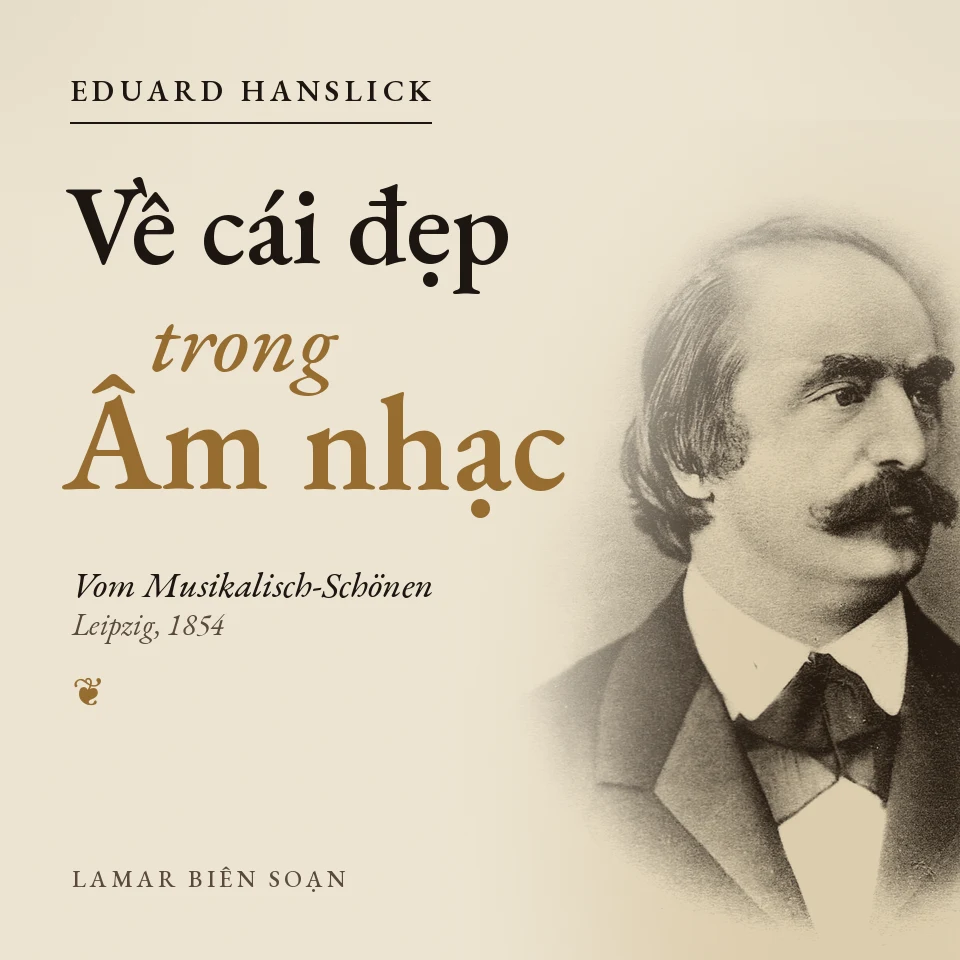
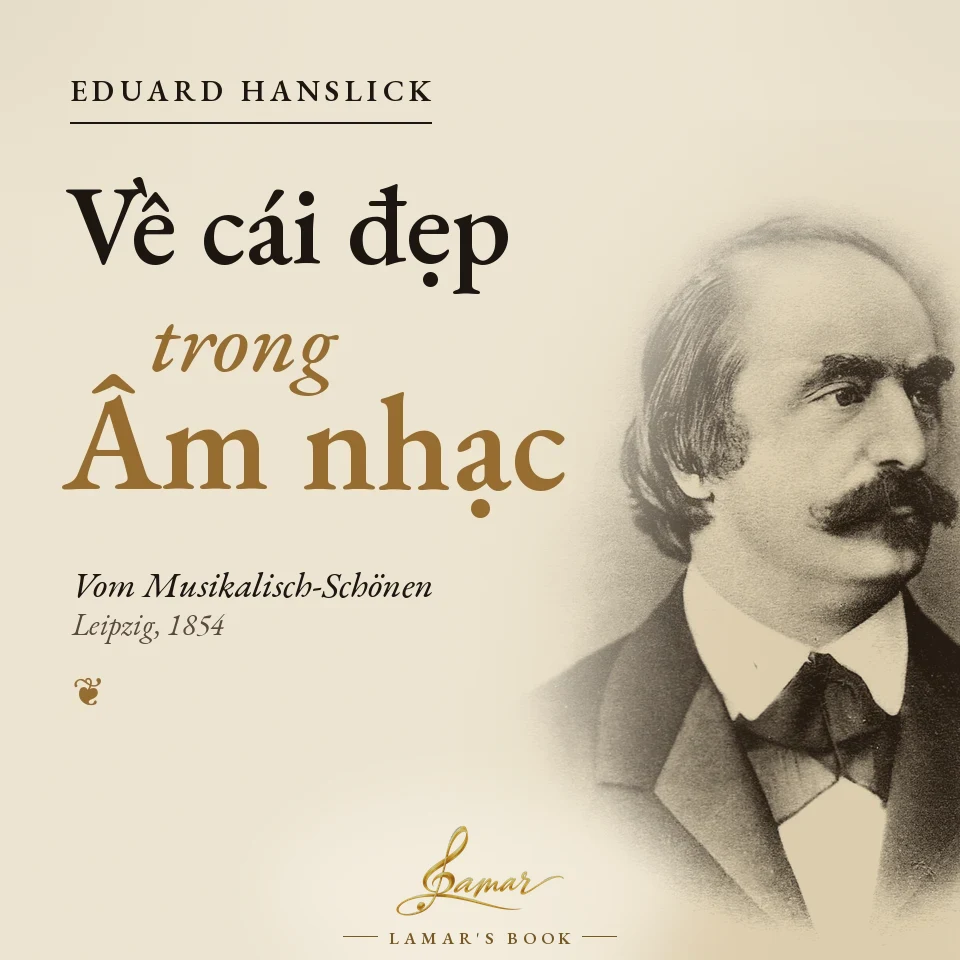
Bìa mới cho Nhạc Lý Cơ Bản 1–2 và hai giáo trình piano (by Lamar); thay "Lamar biên soạn" bằng dấu Lamar's book trên bìa các sách đọc theo tác giả khác
Claude-Session: https://claude.ai/code/session_016DXmRVDzV1tugYS6YgVYK3

diff --git a/src/features/curriculum/curricula.ts b/src/features/curriculum/curricula.ts
@@ -1,3 +1,5 @@
+import kidsCover from '../../assets/covers/piano-tre-em.webp'
+import adultsCover from '../../assets/covers/piano-nguoi-lon.webp'
 import type { Curriculum, ExamSpec } from './types'
 
 /**
@@ -76,6 +78,7 @@ export const CURRICULA: Curriculum[] = [
     audience: 'Trẻ 6 – 12 tuổi · học cùng phụ huynh',
     hue: 25,
     glyph: '𝄞',
+    coverImage: kidsCover,
     intro:
       'Giáo trình đi theo trình tự "âm thanh trước ký hiệu": trẻ hát, vỗ, vận động và chơi theo tai trước, rồi mới đọc điều mình đã nghe. Mỗi chương có đủ các mảng: đọc nốt và kỹ thuật, cùng tiết tấu, luyện tai, ứng tác, sáng tác — những mảng mà khảo sát 66 giáo trình của Hood (1982) chỉ ra là hay bị thiếu. Sau cấp Chuẩn bị, mỗi cấp tương đương một grade piano của ABRSM, từ Initial đến Grade 5. Thời lượng lấy từ "tổng thời gian học" (TQT) mà ABRSM công bố cho từng grade — Initial 40 giờ, Grade 1 60, Grade 2 90, Grade 3 120, Grade 4 150, Grade 5 180 — chia cho nhịp học giả định 10 – 14 giờ mỗi tháng (một buổi học và 15 – 25 phút tập mỗi ngày). ABRSM gọi các con số này là ước tính trung bình; Lamar coi mỗi grade là phần học thêm kể từ grade trước — đây là cách hiểu của Lamar, không phải quy định của ABRSM. Tác phẩm trong mỗi cấp ghi rõ căn cứ xếp cấp; khi thi thật, ba bài thi phải chọn từ sách bài thi ABRSM của kỳ hiện hành.',
     principles: [
@@ -491,6 +494,7 @@ export const CURRICULA: Curriculum[] = [
     audience: 'Người lớn mới học hoặc quay lại',
     hue: 255,
     glyph: '𝄢',
+    coverImage: adultsCover,
     intro:
       'Người lớn học vì những lý do rất khác nhau — thực hiện ước mơ, thư giãn, đệm hát cho gia đình — và bỏ học chủ yếu vì thiếu thời gian hoặc buổi học nhàm. Giáo trình vì vậy đưa hợp âm và đệm hát vào sớm, học nhạc lý ngay trên phím đàn, và mỗi cấp tương đương một grade piano ABRSM từ Initial đến Grade 8. Thời lượng lấy từ "tổng thời gian học" (TQT) ABRSM công bố — Initial 40 giờ, Grade 1 60, 2: 90, 3: 120, 4: 150, 5: 180, 6: 220, 7: 270, 8: 320 — chia cho nhịp học giả định 16 – 22 giờ mỗi tháng (một buổi học và 30 – 45 phút tập gần như mỗi ngày). ABRSM gọi đây là ước tính trung bình; việc coi mỗi grade là phần học thêm kể từ grade trước là cách hiểu của Lamar. Muốn thi Grade 6 – 8 phải đậu nhạc lý Grade 5 (hoặc Practical Musicianship, Jazz Grade 5) — vì vậy cấp Grade 5 có chương nhạc lý riêng. ABRSM không có kỳ thi đệm hát; ba cấp đệm hát cuối tham khảo các kỳ thi Rock & Pop của Trinity, Rockschool, bài thi hoà âm đàn phím của LCM và bài lead sheet của RCM, và có thể học song song từ Grade 5.',
     principles: [

diff --git a/src/features/curriculum/books.ts b/src/features/curriculum/books.ts
@@ -1,4 +1,6 @@
 import harmonyCover from '../../assets/covers/hoa-am-co-dien.webp'
+import theory1Cover from '../../assets/covers/nhac-ly-co-ban-1.webp'
+import theory2Cover from '../../assets/covers/nhac-ly-co-ban-2.webp'
 import polyphonyCover from '../../assets/covers/phuc-dieu-nghiem-khac.webp'
 import fuxCover from '../../assets/covers/doi-am-fux.webp'
 import albrechtsbergerCover from '../../assets/covers/albrechtsberger.webp'
@@ -171,6 +173,7 @@ export const BOOKS: Book[] = [
     audience: 'Người mới học · mọi lứa tuổi',
     hue: 70,
     glyph: '𝄞',
+    coverImage: theory1Cover,
     preface: `
 Cuốn sách này dành cho người **bắt đầu học nhạc lý**: học sinh piano, người lớn tự học, giáo viên cần một trình tự dạy. Mục tiêu là sau khi đọc xong, người học **đọc được bản nhạc**, hiểu nốt nào, dài bao lâu, thuộc giọng gì, hợp âm nào đang vang lên.
 
@@ -311,6 +314,7 @@ Quyển 2 tiếp tục với nhịp nâng cao, điệu thức, hợp âm bảy v
     audience: 'Đã học xong Quyển 1',
     hue: 32,
     glyph: '𝄢',
+    coverImage: theory2Cover,
     preface: `
 Quyển 2 dành cho người đã nắm Quyển 1: đọc được nốt, nhịp, quãng, âm giai và hợp âm ba. Ở đây nhạc lý chuyển từ **ký hiệu** sang **cấu trúc**: vì sao các hợp âm nối với nhau như vậy, một giai điệu được xây thế nào, một bản nhạc chia thành những phần nào.
 

diff --git a/src/features/curriculum/reader/model.ts b/src/features/curriculum/reader/model.ts
@@ -120,7 +120,7 @@ function fromCourse(c: Curriculum): ReaderBook {
     items.push({ key: `on-tap-cap-${i + 1}`, kind: 'review', title: `Ôn tập và kiểm tra Cấp ${i + 1}`, label: l.title, part: i + 1, body: levelBody(l) })
   })
   items.push({ key: 'dap-an', kind: 'answers', title: 'Đáp án câu hỏi ôn tập' })
-  return { id: c.id, title: c.title, subtitle: c.subtitle, author: c.author, audience: c.audience, hue: c.hue, glyph: c.glyph, style: 'color', kind: 'course', items }
+  return { id: c.id, title: c.title, subtitle: c.subtitle, author: c.author, audience: c.audience, hue: c.hue, glyph: c.glyph, style: 'color', coverImage: c.coverImage, kind: 'course', items }
 }
 
 export function roman(n: number) {

diff --git a/src/features/curriculum/types.ts b/src/features/curriculum/types.ts
@@ -54,6 +54,8 @@ export interface Curriculum {
   /** Hue for the cover and accents. */
   hue: number
   glyph: string
+  /** Optional photographic/illustrated cover (square webp). */
+  coverImage?: string
   intro: string
   /** The design principles, each tied to a reason. */
   principles: { title: string; text: string }[]

diff --git a/CLAUDE.md b/CLAUDE.md
@@ -41,7 +41,7 @@ npx tsc -b && npm run lint && npm run check:links && npm run build
 - **Nhạc mở đầu:** `components/introMusic.ts` phát chương IV Giao hưởng số 9 của Dvořák từ đúng nốt Mi đầu câu chủ đề kèn đồng (giây 16,08 của file gốc, dò cao độ) tới 44,5 s — 28,4 s, tắt dần cuối (`public/media/intro-dvorak9.{m4a,ogg}` — m4a cho Safari/Chrome, ogg Opus cho trình duyệt không chơi AAC; cắt từ file mp3 Lamar gửi; theo Lamar là bản Antal Doráti chỉ huy (file không có thẻ, chưa rõ dàn nhạc, năm thu; bản thu thương mại nên còn bản quyền)): mở dần khi vào màn khoá: trình duyệt cho tự phát thì phát thẳng `<audio>` (mờ dần bằng `audio.volume`, không tạo AudioContext vì nó sẽ bị treo ở trạng thái suspended khi chưa có cú chạm — lỗi cũ: chạy mà không ra tiếng); bị chặn thì nút loa nhấp nháy "Chạm để nghe nhạc" và cú chạm/phím đầu dựng Web Audio (iOS bỏ qua `audio.volume`) rồi phát từ đầu; tắt dần 2,2 s khi nhập đúng mã (`App.tsx`); nút loa góc trên trái màn khoá, nhớ tắt/bật ở localStorage `intro:muted`; Save-Data thì không phát.
 - **Logo:** chữ ký vàng "Lamar" (khoá Sol) trên nền đen — `BrandMark` trong `components/icons.tsx` dùng `src/assets/logo-mark.webp`; icon PWA/màn hình chính ở `public/icons/` (192, 512, maskable 512 có lề an toàn, `apple-touch-icon.png` 180), favicon `public/favicon.png`.
 - `src/features/onboarding/` — tour hướng dẫn (bước ở `Onboarding.tsx`, rọi vào phần tử `data-tour`; tự mở lần đầu sau khi mở khoá, mở lại ở Cài đặt → Hướng dẫn sử dụng). `src/features/search/` — bảng lệnh ⌘K tìm toàn app.
-- `src/features/curriculum/` — tủ sách: 2 giáo trình piano theo cấp (`curricula.ts`) và 13 sách lý thuyết trong `books.ts` (thêm *The Jazz Theory Book — by Lamar*, **4 tập** cắt từ hằng `JAZZ_PARTS` (13 phần, 72 chương gom mọi bài mục `jazz` + bài liên quan ở mục khác, theo lộ trình hub `hoa-am-jazz`): id `jazz-theory-book-1` (Tập 1 Nền tảng, phần I–IV; id cũ `jazz-theory-book` của cuốn gộp được chuyển hướng, vị trí đọc/dấu trang/ghi chú cũ tự chia về đúng tập qua `jazzVolumeOf`/`splitOldJazz`), `jazz-theory-book-2` (Hoà âm và thế bấm, V–VII), `-3` (Tái hoà âm và hình thức, VIII–IX), `-4` (Ngẫu hứng và sáng tác, X–XIII); bìa `jazz-theory-book-1..4.webp` (bìa gốc + nhãn VOLUME), lời nói đầu chung `jazzPreface(n, phạm vi)`; Lamar soạn 100% — bài jazz không ghi nguồn The Jazz Piano Site, không dùng "theo TJPS") (thêm *Nghệ Thuật Chơi Piano — Heinrich Neuhaus*, id `neuhaus`, bìa `neuhaus.webp`, theo bộ bài `content/neuhaus-*.ts`: hub `neuhaus-lo-trinh` (bài tổng quan cũ `neuhaus-nghe-thuat-choi-piano` ở musicianship.ts giữ nguyên) + 12 bài theo chương, đọc từ epub bản Anh Kahn & Averill 1993 Lamar gửi, đối chiếu bản dịch Việt; ví dụ nhạc `::scan neuhaus #n` — 155 hình cắt từ epub) (thêm *Về Cái Đẹp Trong Âm Nhạc — Eduard Hanslick*, id `hanslick`, bìa `hanslick.webp` (chân dung phạm vi công cộng từ Commons), theo bộ bài `content/hanslick-*.ts` mục `musicology` (also `philosophy`): hub `hanslick-lo-trinh` + 11 bài theo 7 chương + bài di sản, đọc bằng OCR từ bản quét Cohen/Weitz 1957 trên ibiblio, trích dịch sát bản Anh và ghi trang ấn bản Weitz; các đoạn định kiến (phụ nữ, người Ý, "man dã") thuật đúng và ghi rõ là định kiến; nhóm riêng trong nhánh Mỹ học của `musicology/taxonomy.ts`) (thêm *Thế Giới Như Là Ý Chí Và Biểu Tượng — Arthur Schopenhauer*, id `schopenhauer`, bìa `schopenhauer.webp` (ảnh J. Schäfer 1859, phạm vi công cộng), theo bộ bài `content/schopenhauer-*.ts` mục `musicology` (also `philosophy`): hub `schopenhauer-lo-trinh` (bảng thuật ngữ Vorstellung = biểu tượng, Idee = Ý niệm…) + 13 bài: tiểu sử – lời tựa, Quyển I, II tóm gọn; Quyển III đọc theo đoạn §30 – 51 (6 bài); §52 âm nhạc 2 bài (bè trầm – bè giữa – giai điệu ↔ các bậc tự nhiên; giai điệu rời/trở về âm chủ, trưởng – thứ, chuyển giọng, lời ca – opera, universalia ante rem); Quyển IV; di sản (Wagner theo Wikipedia, ảnh hưởng theo SEP, so với Hanslick). Đọc bằng OCR bản quét Payne/Dover 1969 tập I Lamar gửi, trích dịch sát bản Anh, ghi trang Payne; tập II không có trong bản quét — các chương bổ sung Quyển III đọc từ bản Haldane & Kemp (Gutenberg #40868, tập III, phạm vi công cộng, ghi theo chương): `content/schopenhauer-f.ts` gồm 2 bài ch. XXXIX (`schopenhauer-sieu-hinh-hoc-am-nhac`, `schopenhauer-nhip-giai-dieu-va-nghich-am` — có ví dụ nhạc của chính Schopenhauer) và `schopenhauer-bo-sung-quyen-ba` (ch. XXIX – XXXVIII); phần âm nhạc (§52, ch. XXXIX) và trích dẫn chương bổ sung đã đối chiếu nguyên văn Đức (Zürcher Ausgabe trên zeno.org) — bảng "Đối chiếu nguyên văn" trong hai bài §52; hai câu bài Do Thái (§48 tr. 232, §51 tr. 254) thuật đúng và ghi rõ là định kiến; nhóm riêng trong nhánh Mỹ học của `musicology/taxonomy.ts`) (thêm *Quản Lý Nghệ Sĩ Trong Kinh Doanh Âm Nhạc — Paul Allen*, id `quan-ly-nghe-si`, bìa `quan-ly-nghe-si.webp` (vẽ bằng PIL — sân khấu, đèn rọi, micro, khán giả; không dùng ảnh), theo bộ bài `content/allen-*.ts` mục `musicology`: hub `quan-ly-nghe-si-lo-trinh` + 14 bài theo 14 chương bản 5 (Routledge 2022, epub Lamar gửi; nguồn `allen-refs.ts`), slug `quan-ly-nghe-si-*`; sách còn bản quyền nên bài tóm lược bằng lời mình, trích ngắn kèm số trang bản in; chỗ sách sai/lỗi thời ghi rõ trong bài (SoundExchange thu cho bản ghi; tác quyền cơ học Mỹ 12 xu từ 2023; quỹ Coogan California 15%; câu "Michelangelo" không nguồn); luật Mỹ có ghi chú ngắn về Việt Nam (Luật SHTT, VCPMC); nhóm riêng trong nhánh "Đại chúng, màn ảnh và thị trường" của `musicology/taxonomy.ts`) (thêm *Hình Thức Âm Nhạc — Trường phái Nga – Xô viết*, id `hinh-thuc-am-nhac`, bìa `hinh-thuc-am-nhac.webp`) (*Nhạc Lý Cơ Bản* Quyển 1 – 2; *Hoà Âm Cổ Điển — Trường phái Nga – Xô viết* theo thứ tự chủ đề sách bốn tác giả Dubovsky – Evseev – Sposobin – Sokolov, bìa ảnh `src/assets/covers/hoa-am-co-dien.webp` qua `coverImage`; *Phức Điệu Nghiêm Khắc — Sergei Taneev* chỉ hệ Taneyev theo giáo trình Nhạc viện Hà Nội (Phạm Tú Hương 1991), bìa `phuc-dieu-nghiem-khac.webp`; *Những Bước Lên Đỉnh Parnassus — Johann Joseph Fux* (id `doi-am-fux`) chỉ hệ Fux, bìa `doi-am-fux.webp`. *Bass Đi Liên Tục, Hoà Âm và Sáng Tác — J. G. Albrechtsberger* (id `albrechtsberger`, bìa `albrechtsberger.webp`), 10 phần theo ba tập bản Novello 1855. Hai hệ tách riêng cả sách lẫn bài: bài hệ Taneyev không chứa nội dung Fux và ngược lại, chỉ giữ link chéo một dòng): phần → bài = slug bài thư viện, lời nói đầu, bài tập cuối phần. Mọi sách và giáo trình có "Lời nói đầu" mở bằng `foreword()` (Lamar biên soạn – tổng hợp, Lamar hướng đến) và trang "Về tác giả" (`ABOUT_AUTHOR`). Tick "đã học" lưu localStorage.
+- `src/features/curriculum/` — tủ sách: 2 giáo trình piano theo cấp (`curricula.ts`) và 13 sách lý thuyết trong `books.ts` (thêm *The Jazz Theory Book — by Lamar*, **4 tập** cắt từ hằng `JAZZ_PARTS` (13 phần, 72 chương gom mọi bài mục `jazz` + bài liên quan ở mục khác, theo lộ trình hub `hoa-am-jazz`): id `jazz-theory-book-1` (Tập 1 Nền tảng, phần I–IV; id cũ `jazz-theory-book` của cuốn gộp được chuyển hướng, vị trí đọc/dấu trang/ghi chú cũ tự chia về đúng tập qua `jazzVolumeOf`/`splitOldJazz`), `jazz-theory-book-2` (Hoà âm và thế bấm, V–VII), `-3` (Tái hoà âm và hình thức, VIII–IX), `-4` (Ngẫu hứng và sáng tác, X–XIII); bìa `jazz-theory-book-1..4.webp` (bìa gốc + nhãn VOLUME), lời nói đầu chung `jazzPreface(n, phạm vi)`; Lamar soạn 100% — bài jazz không ghi nguồn The Jazz Piano Site, không dùng "theo TJPS") (thêm *Nghệ Thuật Chơi Piano — Heinrich Neuhaus*, id `neuhaus`, bìa `neuhaus.webp`, theo bộ bài `content/neuhaus-*.ts`: hub `neuhaus-lo-trinh` (bài tổng quan cũ `neuhaus-nghe-thuat-choi-piano` ở musicianship.ts giữ nguyên) + 12 bài theo chương, đọc từ epub bản Anh Kahn & Averill 1993 Lamar gửi, đối chiếu bản dịch Việt; ví dụ nhạc `::scan neuhaus #n` — 155 hình cắt từ epub) (thêm *Về Cái Đẹp Trong Âm Nhạc — Eduard Hanslick*, id `hanslick`, bìa `hanslick.webp` (chân dung phạm vi công cộng từ Commons), theo bộ bài `content/hanslick-*.ts` mục `musicology` (also `philosophy`): hub `hanslick-lo-trinh` + 11 bài theo 7 chương + bài di sản, đọc bằng OCR từ bản quét Cohen/Weitz 1957 trên ibiblio, trích dịch sát bản Anh và ghi trang ấn bản Weitz; các đoạn định kiến (phụ nữ, người Ý, "man dã") thuật đúng và ghi rõ là định kiến; nhóm riêng trong nhánh Mỹ học của `musicology/taxonomy.ts`) (thêm *Thế Giới Như Là Ý Chí Và Biểu Tượng — Arthur Schopenhauer*, id `schopenhauer`, bìa `schopenhauer.webp` (ảnh J. Schäfer 1859, phạm vi công cộng), theo bộ bài `content/schopenhauer-*.ts` mục `musicology` (also `philosophy`): hub `schopenhauer-lo-trinh` (bảng thuật ngữ Vorstellung = biểu tượng, Idee = Ý niệm…) + 13 bài: tiểu sử – lời tựa, Quyển I, II tóm gọn; Quyển III đọc theo đoạn §30 – 51 (6 bài); §52 âm nhạc 2 bài (bè trầm – bè giữa – giai điệu ↔ các bậc tự nhiên; giai điệu rời/trở về âm chủ, trưởng – thứ, chuyển giọng, lời ca – opera, universalia ante rem); Quyển IV; di sản (Wagner theo Wikipedia, ảnh hưởng theo SEP, so với Hanslick). Đọc bằng OCR bản quét Payne/Dover 1969 tập I Lamar gửi, trích dịch sát bản Anh, ghi trang Payne; tập II không có trong bản quét — các chương bổ sung Quyển III đọc từ bản Haldane & Kemp (Gutenberg #40868, tập III, phạm vi công cộng, ghi theo chương): `content/schopenhauer-f.ts` gồm 2 bài ch. XXXIX (`schopenhauer-sieu-hinh-hoc-am-nhac`, `schopenhauer-nhip-giai-dieu-va-nghich-am` — có ví dụ nhạc của chính Schopenhauer) và `schopenhauer-bo-sung-quyen-ba` (ch. XXIX – XXXVIII); phần âm nhạc (§52, ch. XXXIX) và trích dẫn chương bổ sung đã đối chiếu nguyên văn Đức (Zürcher Ausgabe trên zeno.org) — bảng "Đối chiếu nguyên văn" trong hai bài §52; hai câu bài Do Thái (§48 tr. 232, §51 tr. 254) thuật đúng và ghi rõ là định kiến; nhóm riêng trong nhánh Mỹ học của `musicology/taxonomy.ts`) (thêm *Quản Lý Nghệ Sĩ Trong Kinh Doanh Âm Nhạc — Paul Allen*, id `quan-ly-nghe-si`, bìa `quan-ly-nghe-si.webp` (vẽ bằng PIL — sân khấu, đèn rọi, micro, khán giả; không dùng ảnh), theo bộ bài `content/allen-*.ts` mục `musicology`: hub `quan-ly-nghe-si-lo-trinh` + 14 bài theo 14 chương bản 5 (Routledge 2022, epub Lamar gửi; nguồn `allen-refs.ts`), slug `quan-ly-nghe-si-*`; sách còn bản quyền nên bài tóm lược bằng lời mình, trích ngắn kèm số trang bản in; chỗ sách sai/lỗi thời ghi rõ trong bài (SoundExchange thu cho bản ghi; tác quyền cơ học Mỹ 12 xu từ 2023; quỹ Coogan California 15%; câu "Michelangelo" không nguồn); luật Mỹ có ghi chú ngắn về Việt Nam (Luật SHTT, VCPMC); nhóm riêng trong nhánh "Đại chúng, màn ảnh và thị trường" của `musicology/taxonomy.ts`) (thêm *Hình Thức Âm Nhạc — Trường phái Nga – Xô viết*, id `hinh-thuc-am-nhac`, bìa `hinh-thuc-am-nhac.webp`) (*Nhạc Lý Cơ Bản* Quyển 1 – 2; *Hoà Âm Cổ Điển — Trường phái Nga – Xô viết* theo thứ tự chủ đề sách bốn tác giả Dubovsky – Evseev – Sposobin – Sokolov, bìa ảnh `src/assets/covers/hoa-am-co-dien.webp` qua `coverImage`; *Phức Điệu Nghiêm Khắc — Sergei Taneev* chỉ hệ Taneyev theo giáo trình Nhạc viện Hà Nội (Phạm Tú Hương 1991), bìa `phuc-dieu-nghiem-khac.webp`; *Những Bước Lên Đỉnh Parnassus — Johann Joseph Fux* (id `doi-am-fux`) chỉ hệ Fux, bìa `doi-am-fux.webp`. *Bass Đi Liên Tục, Hoà Âm và Sáng Tác — J. G. Albrechtsberger* (id `albrechtsberger`, bìa `albrechtsberger.webp`), 10 phần theo ba tập bản Novello 1855. Hai hệ tách riêng cả sách lẫn bài: bài hệ Taneyev không chứa nội dung Fux và ngược lại, chỉ giữ link chéo một dòng): phần → bài = slug bài thư viện, lời nói đầu, bài tập cuối phần. **Bìa:** sách Lamar tự soạn (Nhạc Lý Cơ Bản 1 – 2 `nhac-ly-co-ban-{1,2}.webp`, hai giáo trình piano `piano-tre-em.webp` / `piano-nguoi-lon.webp` qua `Curriculum.coverImage`, Jazz, Hoà Âm Cổ Điển, Phức Điệu) ghi "by Lamar"; sách đọc theo tác giả khác (Albrechtsberger, Fux, Hình thức, Neuhaus, Hanslick, Schopenhauer, Allen) không ghi "Lamar biên soạn" mà có dấu **Lamar's book** (chữ ký vàng `logo-full.webp` + dòng LAMAR'S BOOK) ở giữa phía dưới, nướng thẳng vào ảnh webp. Mọi sách và giáo trình có "Lời nói đầu" mở bằng `foreword()` (Lamar biên soạn – tổng hợp, Lamar hướng đến) và trang "Về tác giả" (`ABOUT_AUTHOR`). Tick "đã học" lưu localStorage.
   - `reader/`: trình đọc kiểu EPUB (`Reader.tsx`, phân trang bằng CSS columns, lật trang bằng `scrollLeft` của `.reader-flow` (overflow hidden) — **không dùng transform/will-change trên dải cột**: dải cả chương thành một lớp GPU khổng lồ, chương dài làm Android đứng nhiều giây; `curl.ts` chép `scrollLeft` sang bản chụp qua `data-sx`; bảng trong trình đọc được ngắt qua trang, màn hẹp xếp thẻ (`data-cols`/`data-label` từ `Markup.tsx`), 2 trang trên màn rộng, vuốt/phím/lăn chuột, mục lục, dấu trang, tìm trong sách, cỡ chữ – phông – nền Giấy/Sepia/Đêm; vị trí đọc và dấu trang ở `store.ts`; tô màu – ghi chú ở `notes.ts` + `Annotator.tsx`: neo theo đoạn trích + 40 ký tự trước, vẽ bằng CSS Custom Highlight API, bảng "Ghi chú và đánh dấu" lọc/tìm/xuất Markdown, lưu localStorage `reader:notes` (scope = id sách, hoặc `thu-vien` cho bài Lý thuyết; có thẻ `tags`; nằm trong bản sao lưu ở Cài đặt). Annotator cũng gắn vào bài thư viện (`TheoryPage`). Trang `/notes` Sổ nghiên cứu (`features/notebook/`) gom mọi ghi chú, lọc màu/thẻ/nguồn, mở đúng chỗ, xuất Markdown), `model.ts` dựng mọi sách/giáo trình thành chuỗi mục (bìa, lời nói đầu, mục lục, phần, chương), `PrintBook.tsx` dàn trang in → "Lưu dưới dạng PDF". `Pages.tsx` trình bày như sách giáo khoa (dùng chung cho đọc và in): mỗi chương là **Bài n** — mục tiêu, mục đánh số n.1, Hình/Bảng n.k (CSS counters), tham chiếu chéo "(Bài k)" qua `theory/linkRef.ts`, Tóm tắt, Câu hỏi ôn tập (lấy từ quiz theo slug), tài liệu tham khảo; trang mở phần, trang Ôn tập cuối phần, Đáp án cuối sách; tiêu đề chạy và số trang n.p.
   - Route: `/curriculum` giá sách · `/curriculum/:id/:slug` đọc (chương = slug thư viện) · `/curriculum/:id/in` in/PDF · `/curriculum/:id/tong-quan` tổng quan giáo trình piano.
 
